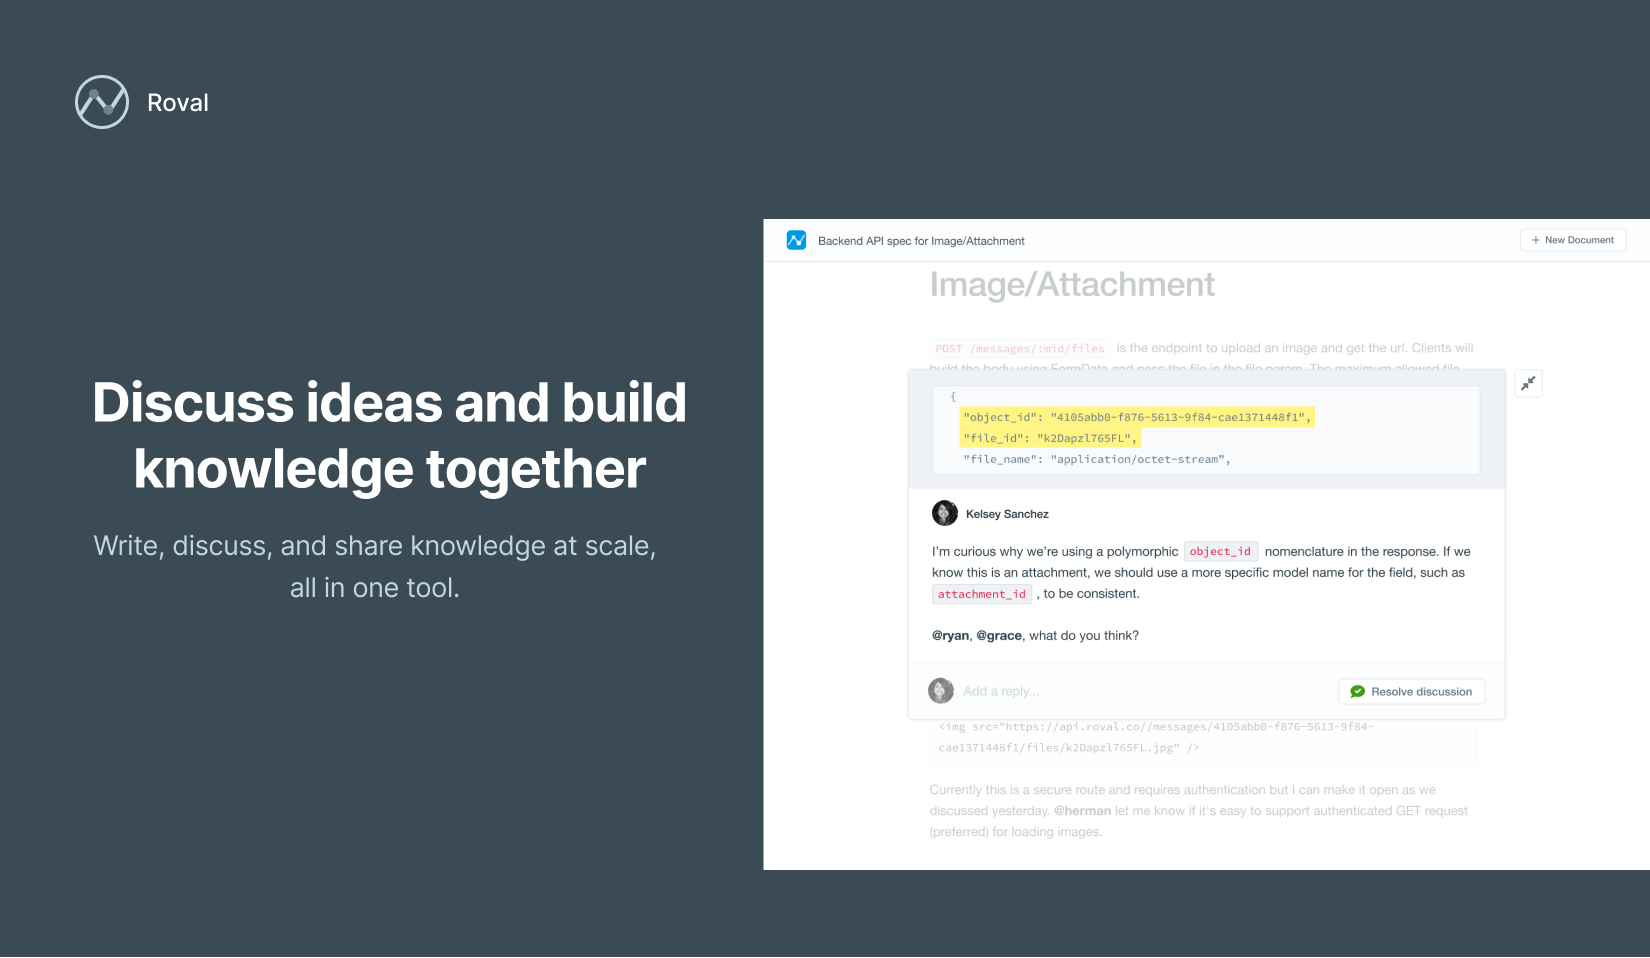
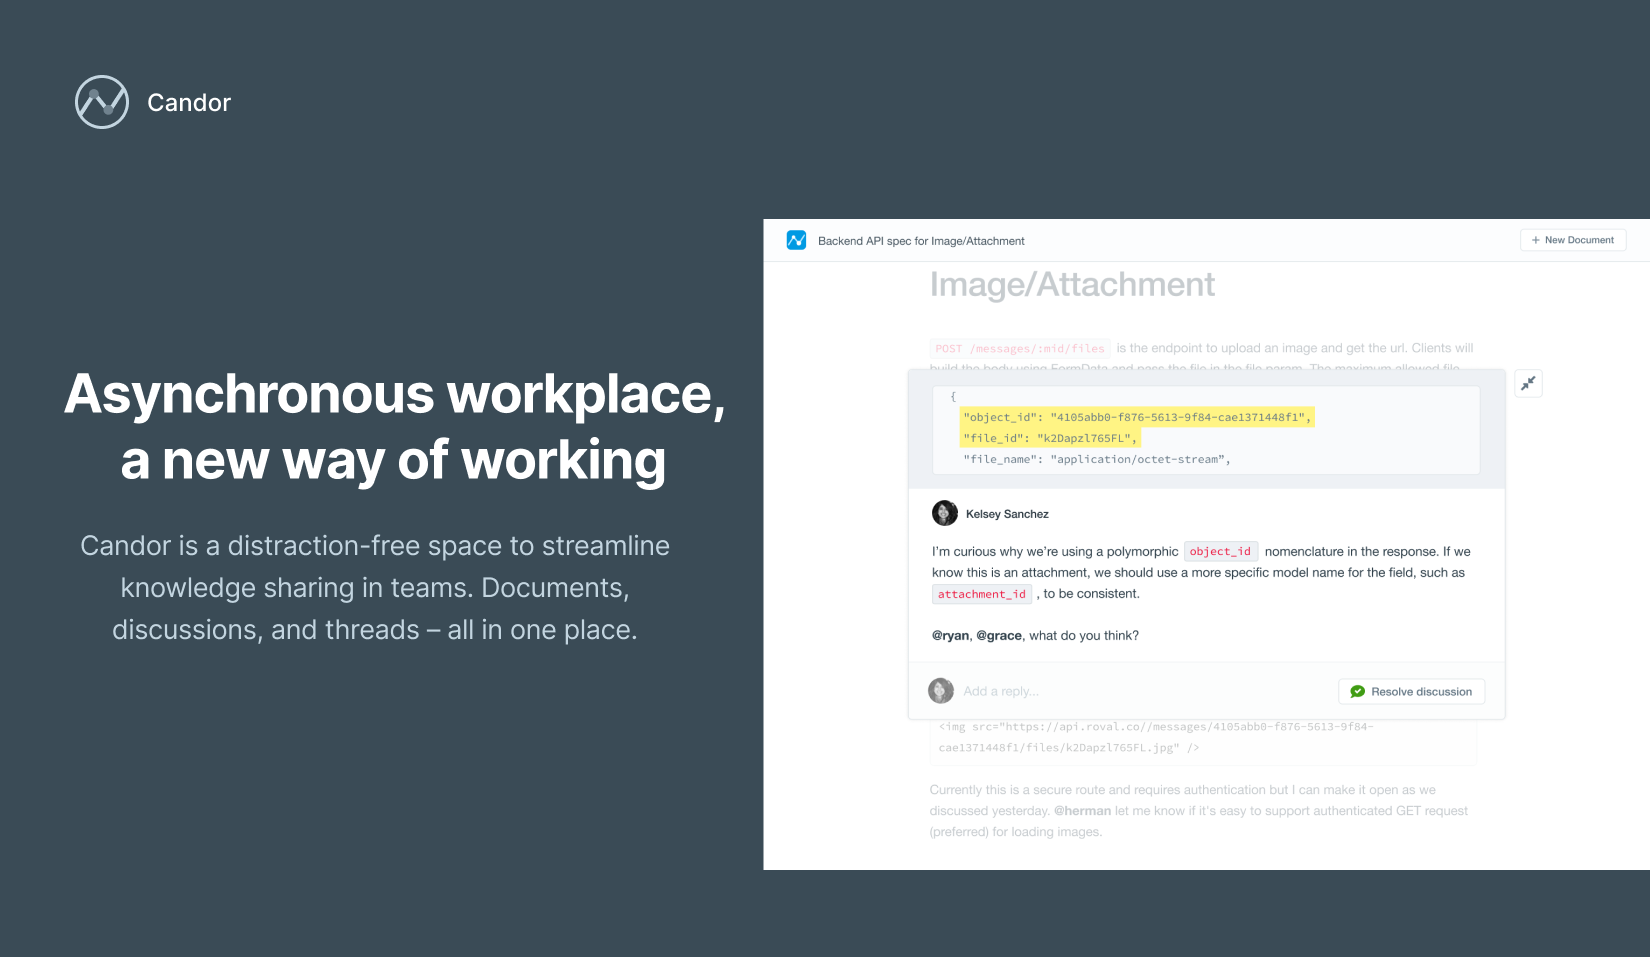
updating meta tags and metaImage

diff --git a/public/index.html b/public/index.html
@@ -19,15 +19,15 @@
       work correctly both with client-side routing and a non-root public URL.
       Learn how to configure a non-root public URL by running `npm run build`.
     -->
-    <title>Candor - Thoughtful discussions for distributed teams</title>
-    <meta name="description" content="Candor is a distraction-free space to streamline discussions and knowledge sharing in teams. Early access coming soon.">
+    <title>Candor - Asynchronous workplace, a new way of working</title>
+    <meta name="description" content="Candor is a distraction-free space to streamline knowledge sharing in teams. Documents, discussions, and threads – all in one place. Early access coming soon.">
     <meta name="twitter:card" content="summary">
-    <meta name="twitter:title" content="Candor - Thoughtful discussions for distributed teams">
-    <meta name="twitter:description" content="Candor is a distraction-free space to streamline discussions and knowledge sharing in teams. Early access coming soon.">
+    <meta name="twitter:title" content="Candor - Asynchronous workplace, a new way of working">
+    <meta name="twitter:description" content="Candor is a distraction-free space to streamline knowledge sharing in teams. Documents, discussions, and threads – all in one place. Early access coming soon.">
     <meta name="twitter:site" content="@oncandor" class="next-head">
     <meta property="twitter:image" content="https://candor.ws/metaImage.png">
-    <meta name="og:title" content="Candor - Thoughtful discussions for distributed teams">
-    <meta name="og:description" content="Candor is a distraction-free space to streamline discussions and knowledge sharing in teams. Early access coming soon.">
+    <meta name="og:title" content="Candor - Asynchronous workplace, a new way of working">
+    <meta name="og:description" content="Candor is a distraction-free space to streamline knowledge sharing in teams. Documents, discussions, and threads – all in one place. Early access coming soon.">
     <meta name="og:url" content="https://candor.ws">
     <meta name="og:site_name" content="Candor">
     <meta name="og:type" content="website">
